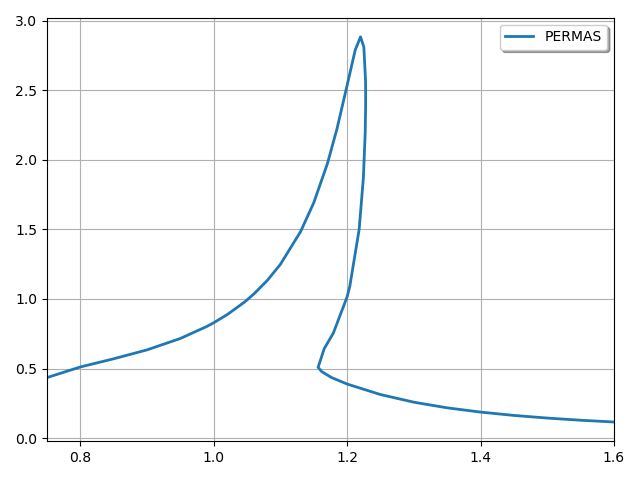
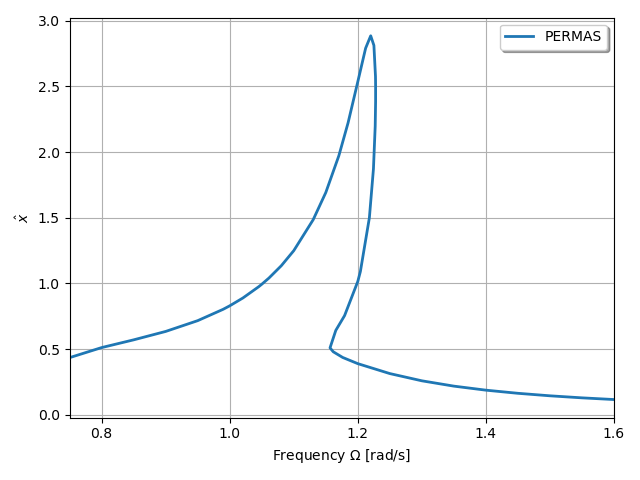
Add files via upload

diff --git a/hbm/examples/045/tido_03.py b/hbm/examples/045/tido_03.py
@@ -12,6 +12,8 @@ ax.plot(2*np.pi*df['Frequency'],df['H1-N101,u'],lw=2,label='PERMAS')
 ax.legend(shadow=True).set_draggable(True)
 ax.set_xlim(0.75,1.6)
 ax.set_xticks(np.linspace(0.8,1.6,5))
+ax.set_xlabel(r'Frequency $\Omega$ [rad/s]')
+ax.set_ylabel(r'$\hat{x}$')
 ax.grid()
 plt.tight_layout()
 plt.show()
